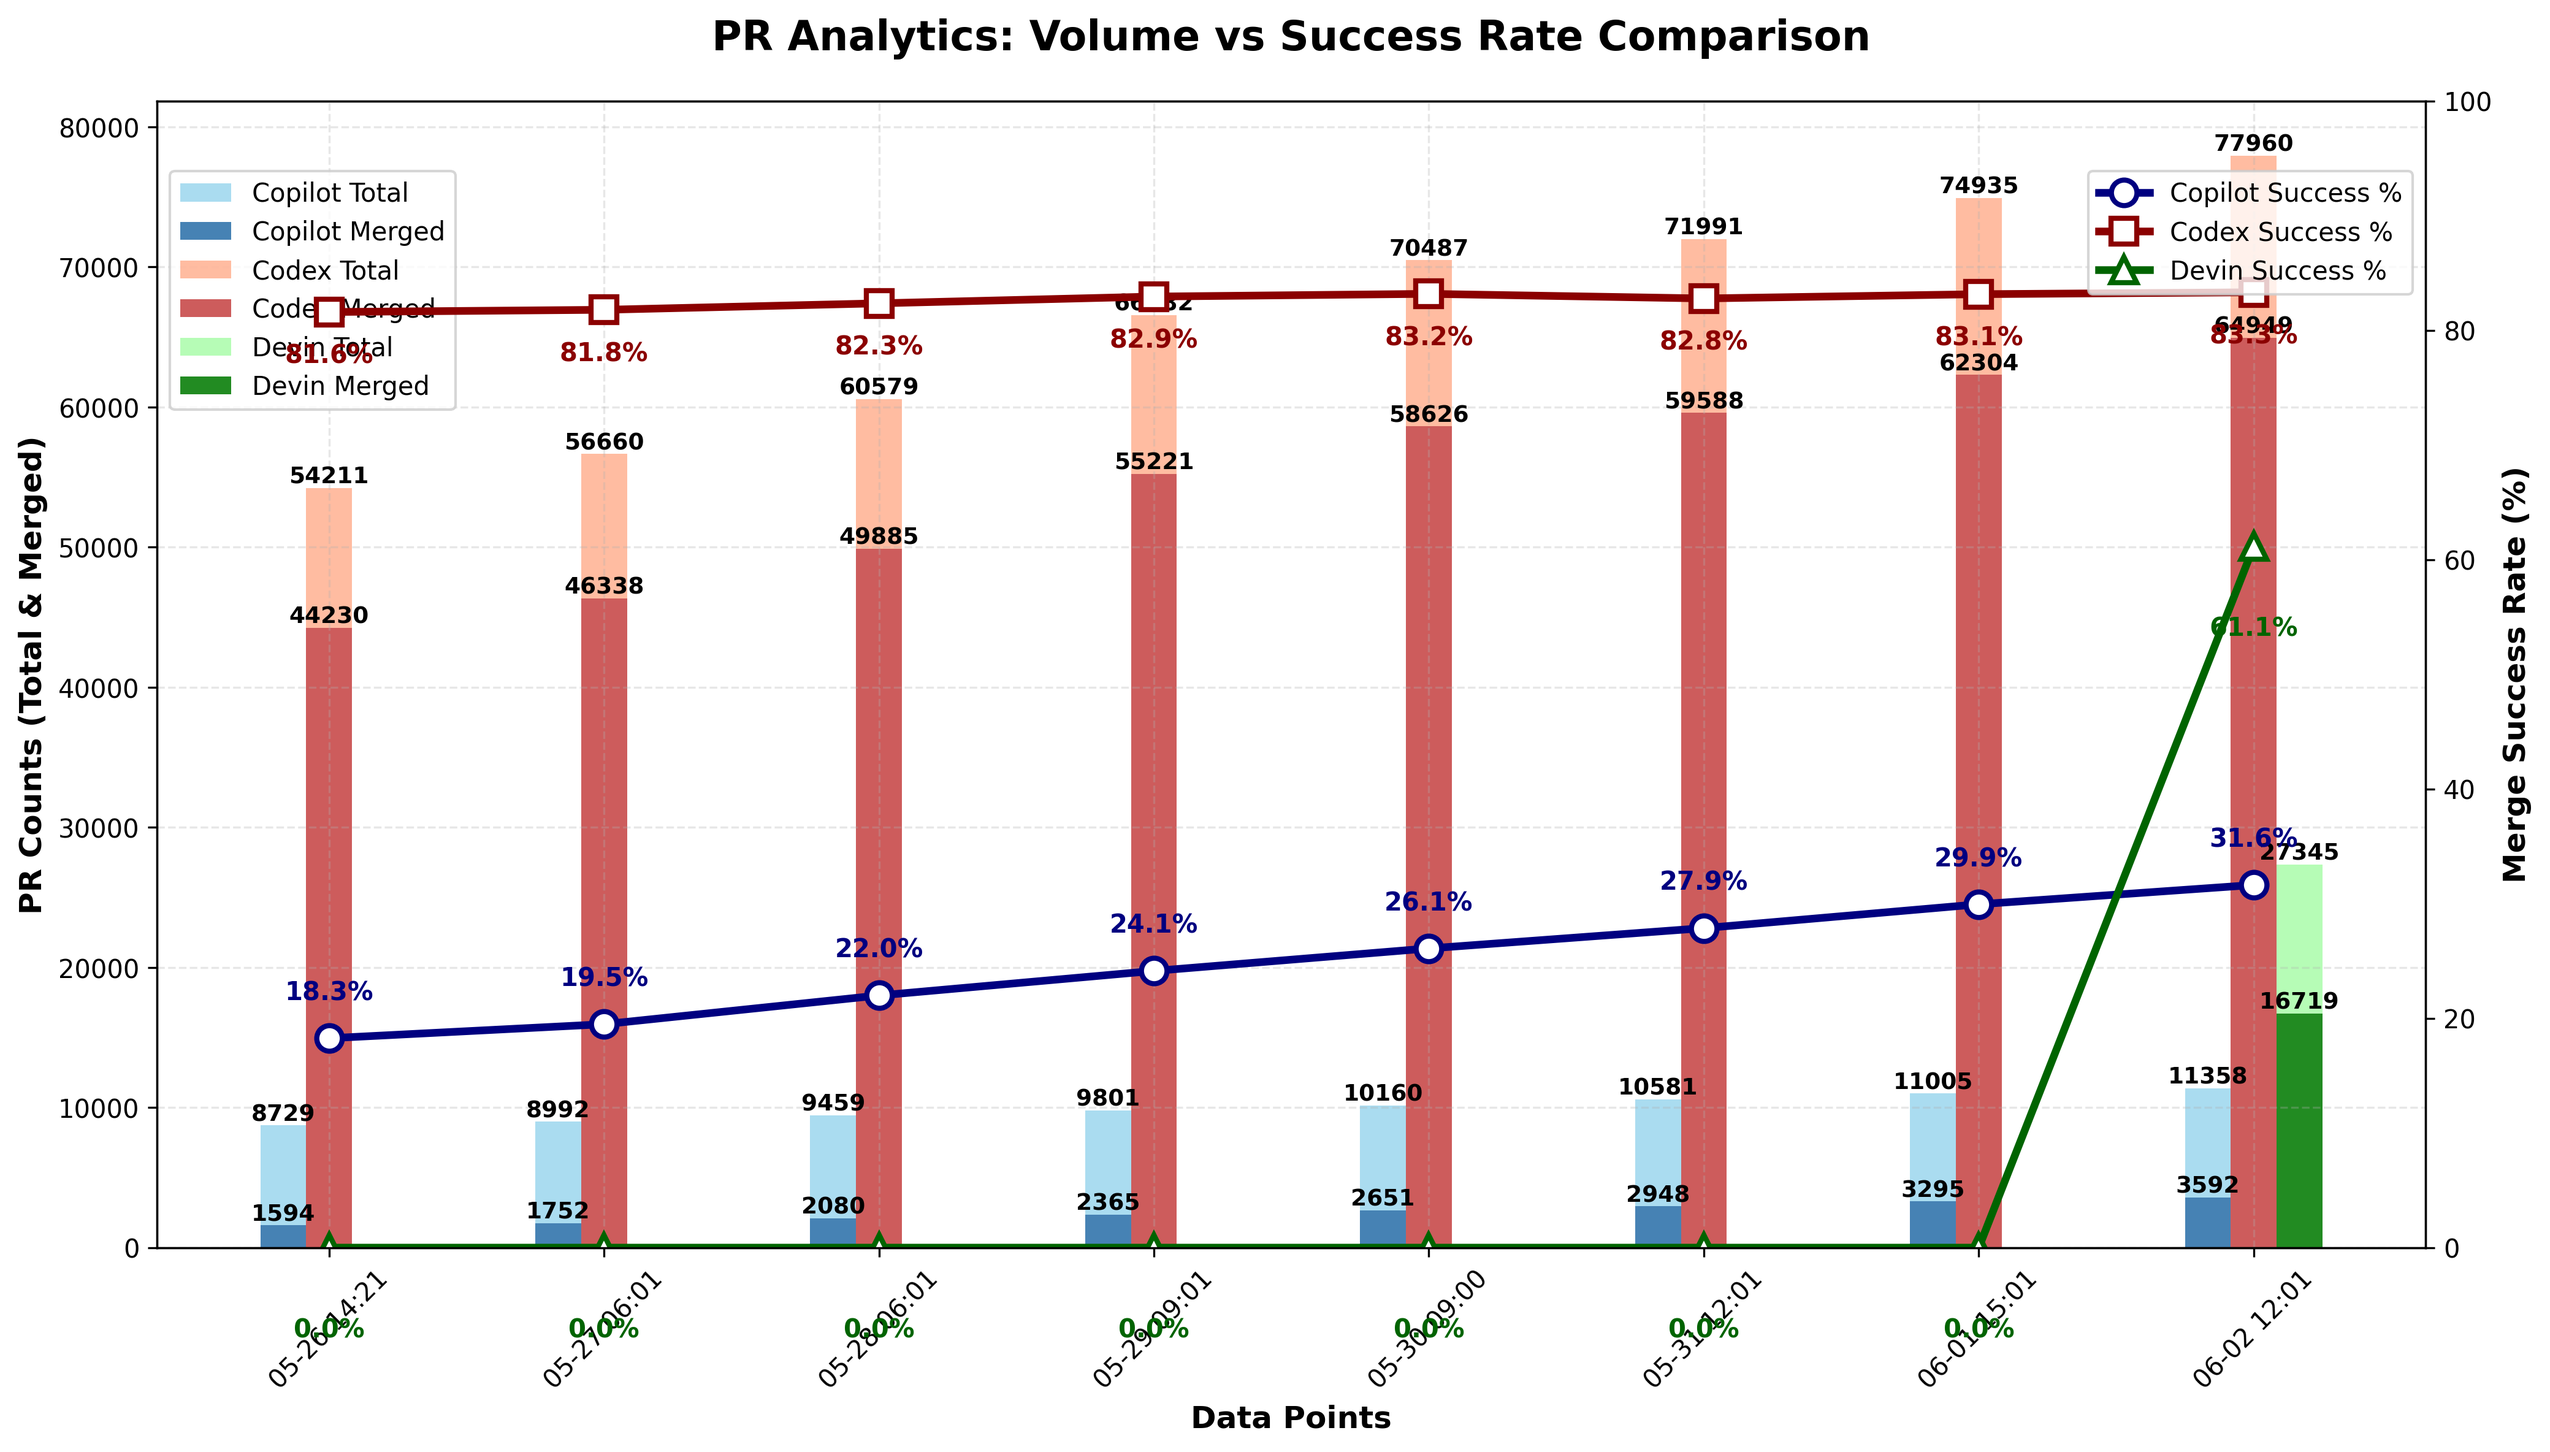
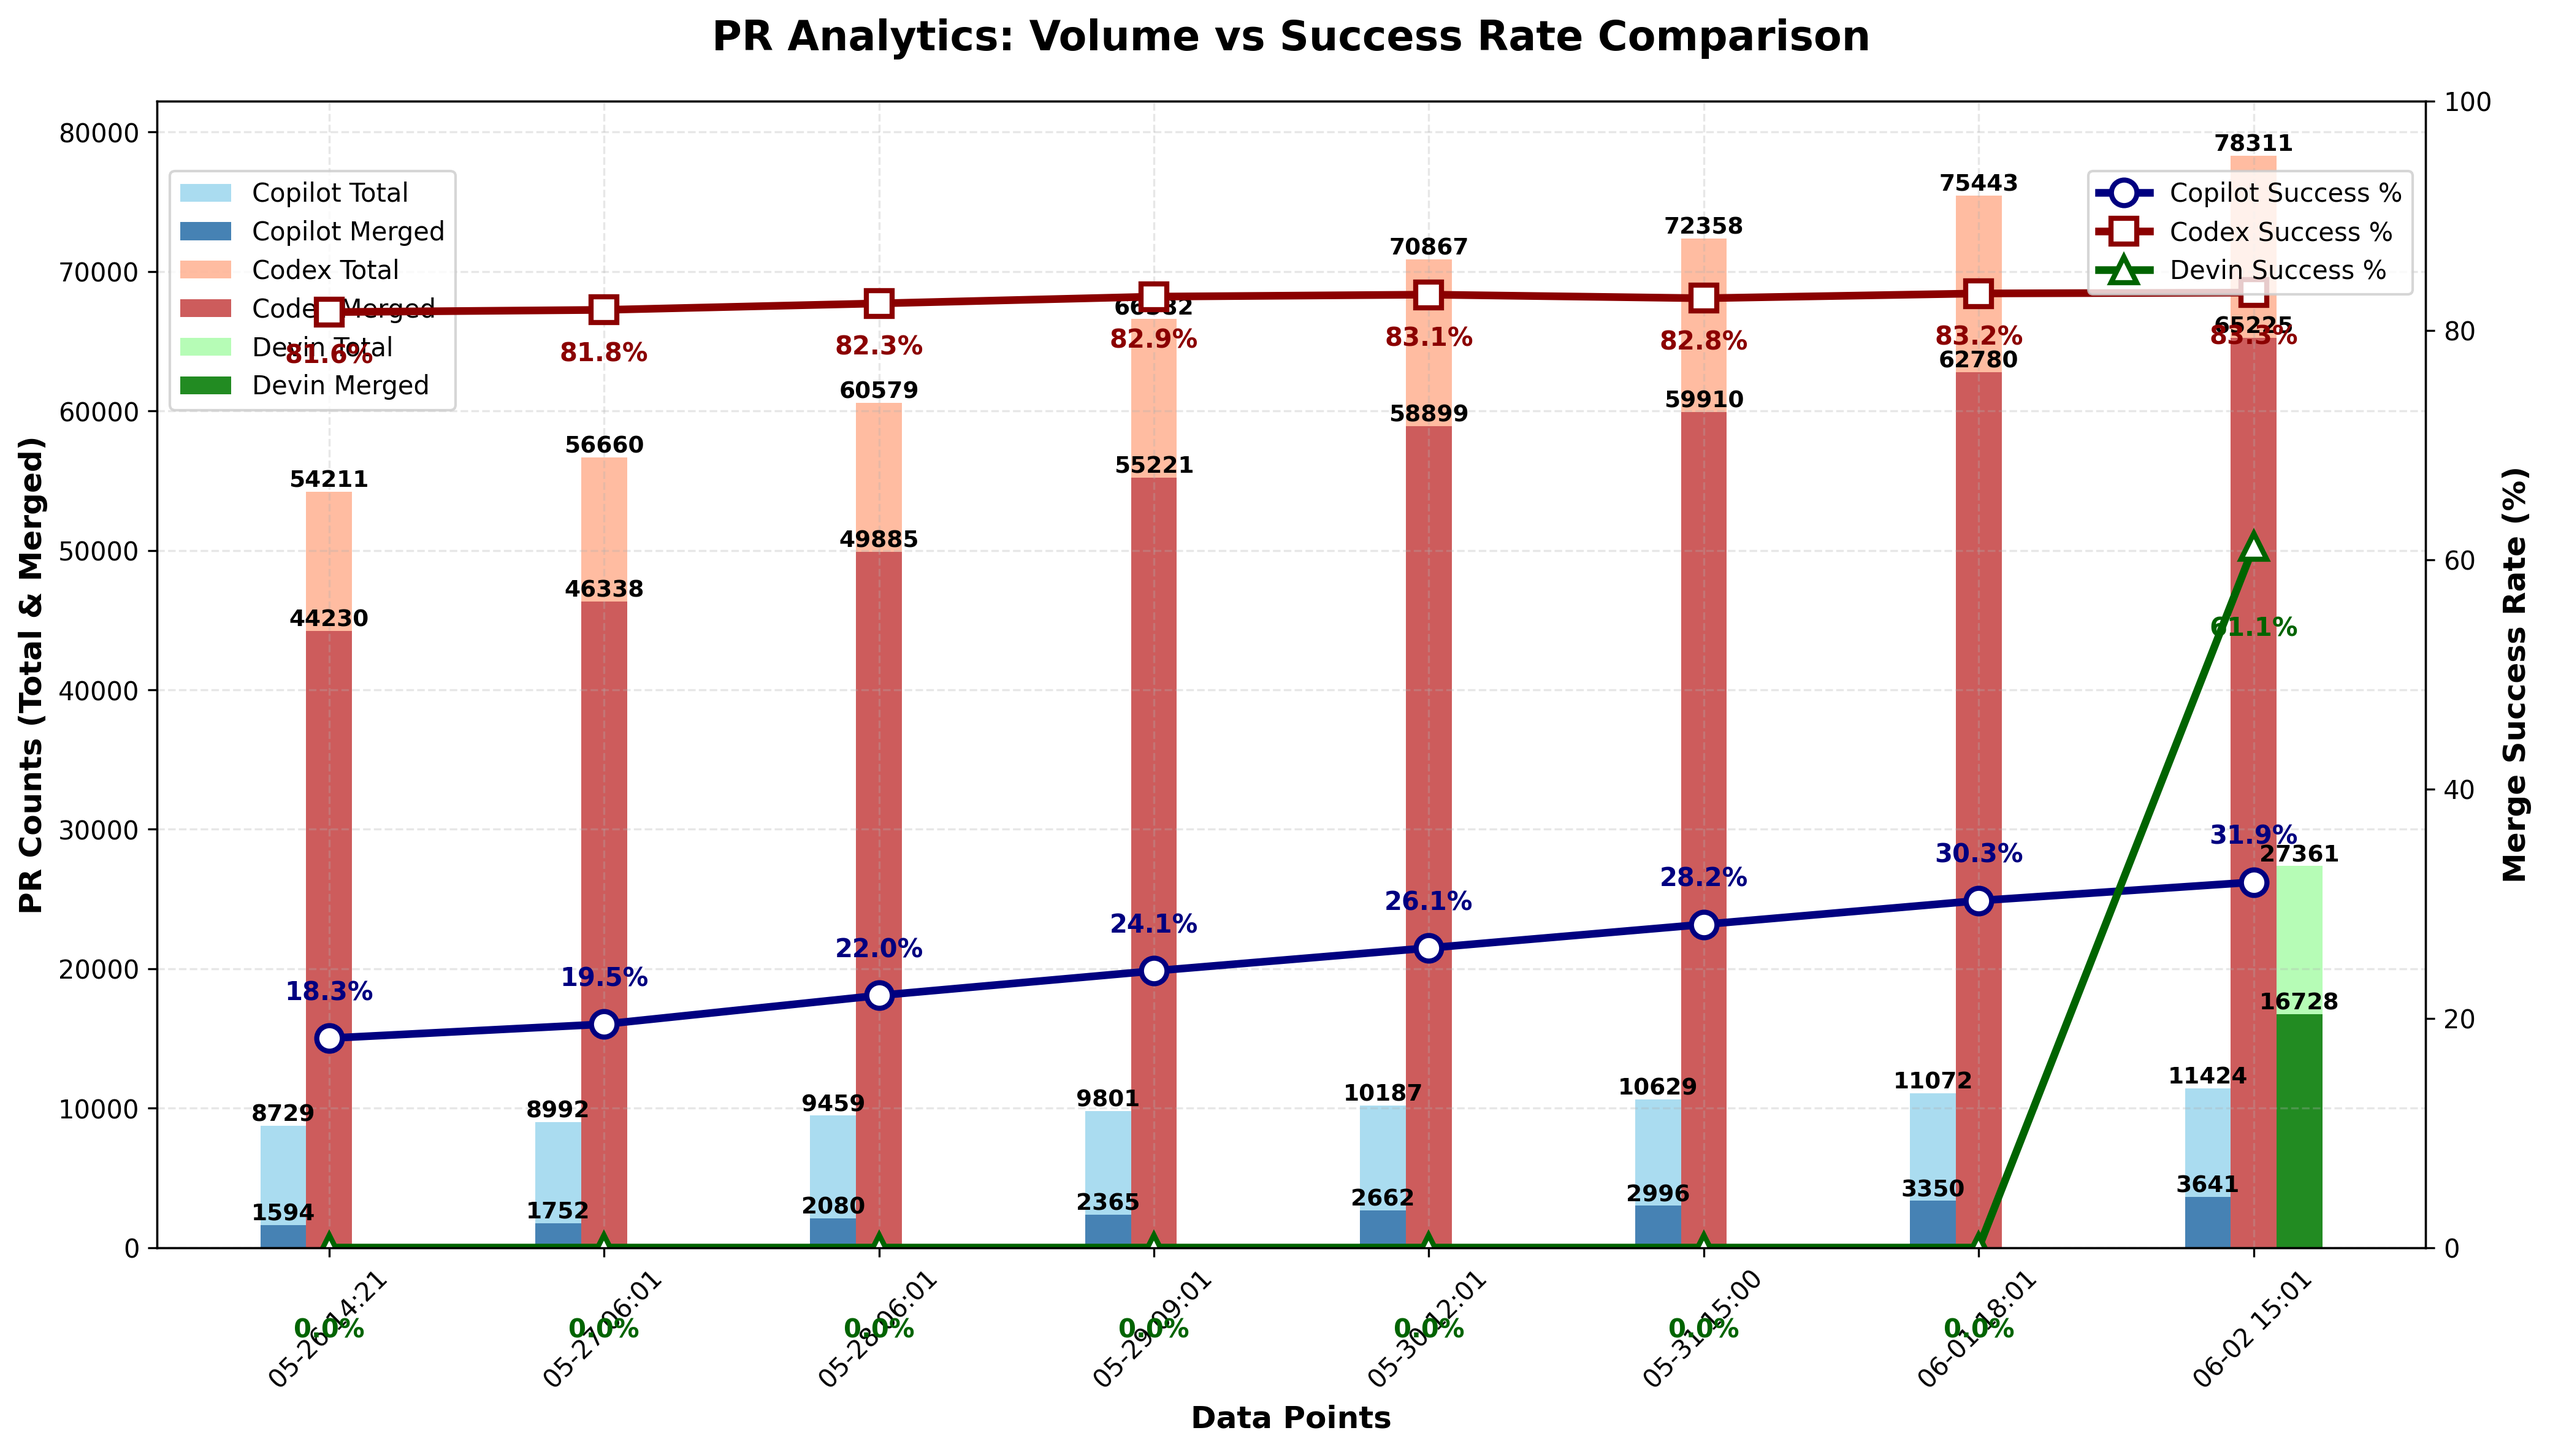
chore: update PR‑approval chart

diff --git a/docs/index.html b/docs/index.html
@@ -46,22 +46,22 @@
                 <tbody>
                     <tr>
                         <td>Copilot</td>
-                        <td>11,358</td>
-                        <td>3,592</td>
-                        <td>31.63%</td>
+                        <td>11,424</td>
+                        <td>3,641</td>
+                        <td>31.87%</td>
                     </tr>
                     <tr>
                         <td>Codex</td>
-                        <td>77,960</td>
-                        <td>64,949</td>
-                        <td>83.31%</td>
+                        <td>78,311</td>
+                        <td>65,225</td>
+                        <td>83.29%</td>
                     </tr>
                 </tbody>
             </table>
         </section>
 
         <footer>
-            <p>Last updated: <span id="last-updated">June 02, 2025 12:01 UTC</span></p>
+            <p>Last updated: <span id="last-updated">June 02, 2025 15:01 UTC</span></p>
             <p><a href="https://github.com/aavetis/ai-pr-watcher">View on GitHub</a></p>
         </footer>
     </div>

diff --git a/README.md b/README.md
@@ -21,6 +21,6 @@ Explore the GitHub search queries used:
 
 | Project | Total PRs | Merged PRs | Merge Rate |
 | ------- | --------- | ---------- | ---------- |
-| Copilot | 11,358 | 3,592 | 31.63% |
-| Codex   | 77,960 | 64,949 | 83.31% |
-| Devin   | 27,345 | 16,719 | 61.14% |
+| Copilot | 11,424 | 3,641 | 31.87% |
+| Codex   | 78,311 | 65,225 | 83.29% |
+| Devin   | 27,361 | 16,728 | 61.14% |
